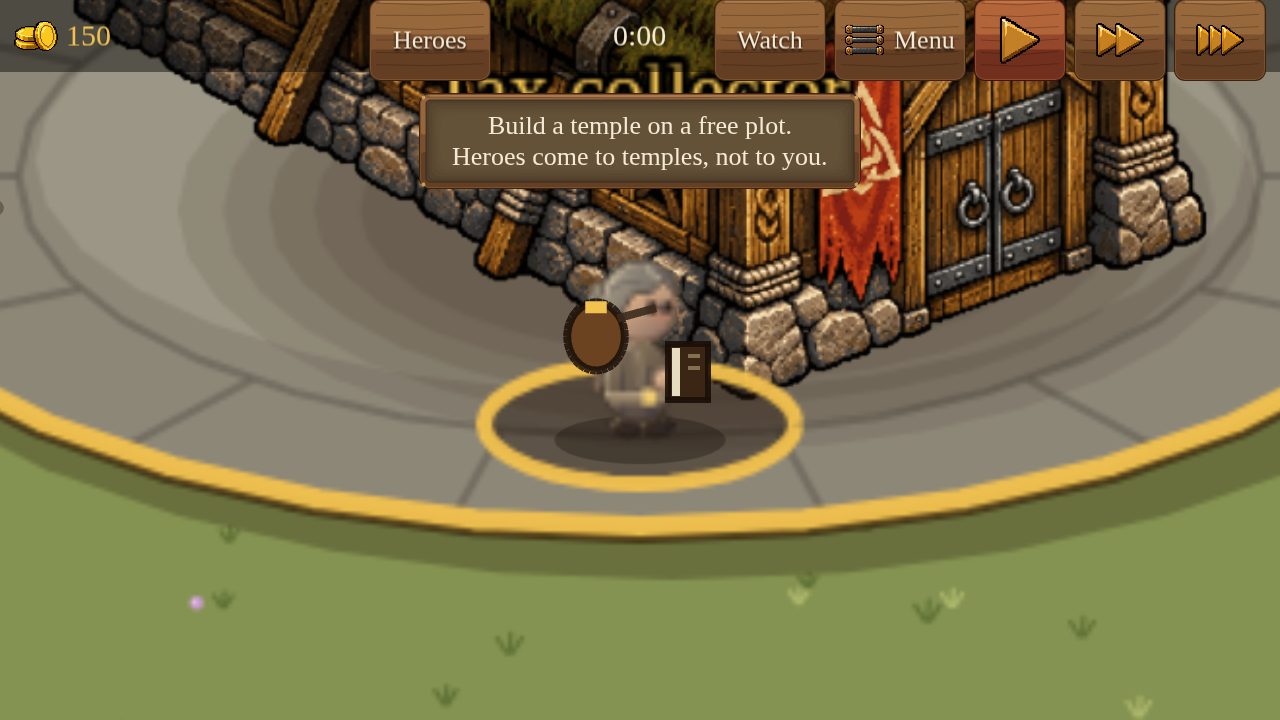
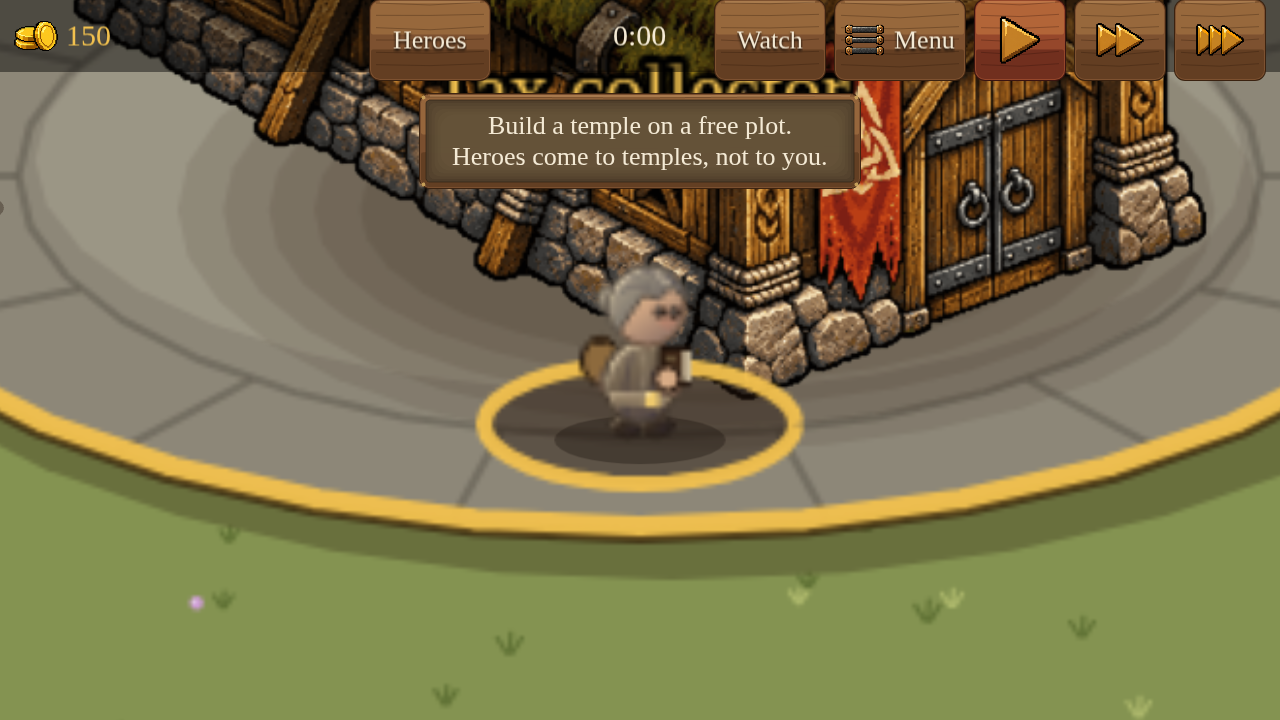
fix(scene): collector sack behind the body, ledger held at the front hand, both baked into the rig frames
Claude-Session: https://claude.ai/code/session_01EDKMoTWRabZMeHFkhrUDvd

Changed region(s): [[0.4375, 0.3667, 0.5625, 0.5806]]

diff --git a/src/ui/parts/collectorProps.ts b/src/ui/parts/collectorProps.ts
@@ -1,0 +1,104 @@
+// The tax collector's props, drawn into each baked frame of his rig (bake.ts) so they move with
+// the figure and layer right: the sack goes BEHIND the body (it hangs on his back), the ledger is
+// drawn at the front hand's position of that very frame and the hand is drawn again over its edge,
+// so it is held. Units are the rig's drawing units (feet at the origin, facing +x); the frame's
+// transform is already set by the caller.
+export interface PropCtx {
+  save(): void;
+  restore(): void;
+  beginPath(): void;
+  ellipse(x: number, y: number, rx: number, ry: number, rot: number, a0: number, a1: number): void;
+  arc(x: number, y: number, r: number, a0: number, a1: number): void;
+  rect(x: number, y: number, w: number, h: number): void;
+  fill(): void;
+  stroke(): void;
+  moveTo(x: number, y: number): void;
+  lineTo(x: number, y: number): void;
+  translate(x: number, y: number): void;
+  rotate(a: number): void;
+  fillStyle: string | CanvasGradient | CanvasPattern;
+  strokeStyle: string | CanvasGradient | CanvasPattern;
+  lineWidth: number;
+}
+
+const INK = '#1a0f08';
+const SACK = '#8a6a3c';
+const SACK_TIE = '#3e2c18';
+const COIN = '#f2c14e';
+
+// Sack radius in drawing units by size (0 empty, 1 some, 2 heavy).
+const RADIUS = [4.4, 5.8, 7.2] as const;
+
+export interface PropPose {
+  bob: number;
+  rot: number;
+  hf: { x: number; y: number };
+}
+
+// The sack, behind the body: centred on the back (left), low enough that the shoulder stays clear.
+export function drawSackBack(c: PropCtx, size: 0 | 1 | 2, p: PropPose): void {
+  const r = RADIUS[size];
+  c.save();
+  if (p.rot) c.rotate(p.rot);
+  c.translate(-5.6 - r * 0.35, -13.5 - r * 0.2 + p.bob);
+  c.beginPath();
+  c.ellipse(0, 0, r * 0.82, r, 0, 0, Math.PI * 2);
+  c.fillStyle = SACK;
+  c.fill();
+  c.lineWidth = 0.9;
+  c.strokeStyle = INK;
+  c.stroke();
+  // The tied neck of the sack.
+  c.beginPath();
+  c.rect(-r * 0.32, -r * 1.02, r * 0.64, 1.6);
+  c.fillStyle = SACK_TIE;
+  c.fill();
+  if (size > 0) {
+    c.beginPath();
+    c.arc(0, r * 0.1, size === 2 ? 2 : 1.5, 0, Math.PI * 2);
+    c.fillStyle = COIN;
+    c.fill();
+    c.lineWidth = 0.5;
+    c.stroke();
+  }
+  c.restore();
+}
+
+// The ledger in the front hand: a dark book standing in the hand, pale page edge toward the front.
+// Drawn after the body; the hand is painted again over the cover so the fingers are on it.
+export function drawLedgerHeld(c: PropCtx, p: PropPose, skin: string, handR = 2.4): void {
+  c.save();
+  if (p.rot) c.rotate(p.rot);
+  c.translate(p.hf.x, p.hf.y);
+  const w = 5.2;
+  const h = 7;
+  c.beginPath();
+  c.rect(-1.2, -h + 1.2, w, h);
+  c.fillStyle = '#3b2616';
+  c.fill();
+  c.lineWidth = 0.8;
+  c.strokeStyle = INK;
+  c.stroke();
+  // Pages on the far edge and two ruled lines.
+  c.beginPath();
+  c.rect(w - 2.2, -h + 1.8, 1.4, h - 1.2);
+  c.fillStyle = '#e6dcc0';
+  c.fill();
+  c.beginPath();
+  c.moveTo(-0.2, -h + 3.2);
+  c.lineTo(1.6, -h + 3.2);
+  c.moveTo(-0.2, -h + 4.8);
+  c.lineTo(1.6, -h + 4.8);
+  c.lineWidth = 0.5;
+  c.strokeStyle = '#8a7a58';
+  c.stroke();
+  // The hand over the cover.
+  c.beginPath();
+  c.arc(0, 0, handR, 0, Math.PI * 2);
+  c.fillStyle = skin;
+  c.fill();
+  c.lineWidth = 0.8;
+  c.strokeStyle = INK;
+  c.stroke();
+  c.restore();
+}

diff --git a/src/ui/unitViews.ts b/src/ui/unitViews.ts
@@ -44,7 +44,7 @@ import { pickVariant, rotateHue, sizeJitter, tierStyle } from './monsterLook';
 import { RIDER_LOOK, riderDurationMs } from './riderLook';
 import { damageLook, MAX_FLOATS, typeTint, type FloatLook, type HitInfo } from './damageLook';
 import { getSettings } from './settings';
-import { sackSize, drawCollector, drawCollectorProps } from './taxLook';
+import { sackSize, drawCollector } from './taxLook';
 import { drawJar } from './ambrosiaLook';
 import { heroLabel, partyColor, partyRole, type PartyRole } from './partyLook';
 import { SpeechLimit } from './speechLimit';
@@ -235,6 +235,7 @@ export class UnitView {
   private jarDrawn = false;
   private collector = false;
   private sackDrawn = -1;
+  private carryCap = DEFAULT_TUNING.collector.carryCap;
   private intentDrawn = false;
   private hiddenNow = false;
   private stoneNow = false;
@@ -364,7 +365,9 @@ export class UnitView {
     }
     if (u.kind === 'hero' && ART_BEATS_PARTS && this.stillOk) return this.leaveParts();
     const look =
-      u.kind === 'collector' ? collectorPartsLook() : heroPartsLook(u.god, u.path, u.tier);
+      u.kind === 'collector'
+        ? collectorPartsLook(sackSize(u.gold ?? 0, this.carryCap))
+        : heroPartsLook(u.god, u.path, u.tier);
     if (!look) return this.leaveParts();
     const id = look.id;
     if (id === this.partsId) return true;
@@ -636,16 +639,19 @@ export class UnitView {
     if (carrying) drawJar(this.jarG, -this.w * 0.55, -this.h * 0.55, 1.2);
   }
 
+  // The round figure's sack (only when there is no rig: with the parts rig the sack and the ledger
+  // are baked into the frames, per sack size).
   private drawSackFor(carried: number, cap = DEFAULT_TUNING.collector.carryCap): void {
     if (!this.sackG) return;
+    if (this.partsId !== '') {
+      if (this.sackDrawn !== -2) this.sackG.clear();
+      this.sackDrawn = -2;
+      return;
+    }
     const size = sackSize(carried, cap);
-    // On the parts rig only the props are drawn (sack, strap, ledger); else the whole round figure.
-    const onRig = this.partsId !== '';
-    const key = size + (onRig ? 10 : 0);
-    if (key === this.sackDrawn) return;
-    this.sackDrawn = key;
-    if (onRig) drawCollectorProps(this.sackG.setScale(1), size);
-    else drawCollector(this.sackG.setScale(0.78), size);
+    if (size === this.sackDrawn) return;
+    this.sackDrawn = size;
+    drawCollector(this.sackG.setScale(0.78), size);
   }
 
   // A short sign over the head for a moment: a "?" or "!" a boss move puts on its target.
@@ -830,6 +836,7 @@ export class UnitView {
 
   update(u: UnitState, ctx: FrameCtx, role: PartyRole = 'solo'): void {
     this.tierNow = u.tier;
+    this.carryCap = ctx.carryCap;
     if (u.kind === 'worker') this.drawJarFor((ctx.carry.get(u.id) ?? 0) > 0);
     if (!this.applyParts(u)) this.applyArt(u);
     // After the look is chosen: on the parts rig the sack is just a prop.

diff --git a/src/ui/parts/bake.ts b/src/ui/parts/bake.ts
@@ -8,6 +8,7 @@ import { drawHuman, pose as rigPose, setState, usc } from './proto.gen';
 import { drawKit, kitScale, layout } from './painted';
 import { kitOf } from './paintedLoad';
 import { gradePixels } from './partsStyle';
+import { drawLedgerHeld, drawSackBack } from './collectorProps';
 import {
   ATLAS_COLS as COLS,
   FRAME_COUNT,
@@ -50,7 +51,10 @@ export function ensureHeroSet(scene: Phaser.Scene, id: string, def: PartsDef, ti
   const atlas = `parts_${id}`;
   if (scene.textures.exists(atlas)) scene.textures.remove(atlas);
   // A painted look (a kit combo in data/heroKits.ts) is drawn from its pictures on the same rig.
-  const kit = kitOf(scene, id);
+  // The tax collector's look carries a sack size (0 to 2) and names the kit it would use.
+  const sack =
+    typeof def.sack === 'number' ? (Math.min(2, Math.max(0, def.sack)) as 0 | 1 | 2) : -1;
+  const kit = kitOf(scene, typeof def.kit === 'string' ? def.kit : id);
   const tex = scene.textures.createCanvas(atlas, fw * COLS, fh * rows);
   const frames = { idle: [], walk: [], attack: [], ko: [] } as Record<PoseName, string[]>;
   const set: BakedSet = {
@@ -93,6 +97,14 @@ export function ensureHeroSet(scene: Phaser.Scene, id: string, def: PartsDef, ti
         alpha: 1,
         hits: 0,
       };
+      // The collector's sack hangs behind him; the ledger is drawn over the body at the front hand.
+      const props = sack >= 0 ? rigPose(u) : null;
+      if (props) {
+        c.save();
+        c.scale(usc(u), usc(u));
+        drawSackBack(c, sack as 0 | 1 | 2, props);
+        c.restore();
+      }
       if (kit) {
         const p = rigPose(u);
         // The same on-screen size as the code look: the painted figure is 44 units tall, the
@@ -102,6 +114,12 @@ export function ensureHeroSet(scene: Phaser.Scene, id: string, def: PartsDef, ti
         drawKit(c, layout(kit, p, p.armF > 2.0 && u.atkT >= 0), p);
         c.restore();
       } else drawHuman(u);
+      if (props) {
+        c.save();
+        c.scale(usc(u), usc(u));
+        drawLedgerHeld(c, props, String(def.skin ?? '#d3ab88'));
+        c.restore();
+      }
       setState({ ctx: null });
       c.restore();
     }

diff --git a/src/ui/taxLook.ts b/src/ui/taxLook.ts
@@ -32,32 +32,6 @@ export function drawCoin(g: Phaser.GameObjects.Graphics, x: number, y: number, r
   g.lineStyle(2, TAX_STYLE.coinEdge, 0.9).strokeCircle(x, y, r * 0.62);
 }
 
-// The collector's props on the parts rig (a figure of hero size, feet at the origin): the sack on
-// his back (left) in 3 sizes by what he carries, a strap across the chest and a ledger held at his
-// front hand. The body itself comes from the rig.
-export function drawCollectorProps(g: Phaser.GameObjects.Graphics, size: 0 | 1 | 2): void {
-  g.clear();
-  const ink = 0x1a0f08;
-  const r = size === 0 ? 9 : size === 1 ? 12 : 15;
-  const sx = -11;
-  const sy = -25 - r * 0.1;
-  g.fillStyle(TAX_STYLE.sack, 1).fillEllipse(sx, sy, r * 1.6, r * 1.9);
-  g.lineStyle(2, ink, 0.85).strokeEllipse(sx, sy, r * 1.6, r * 1.9);
-  g.fillStyle(TAX_STYLE.sackTie, 1).fillRect(sx - r * 0.3, sy - r * 0.98, r * 0.6, 3);
-  if (size > 0) drawCoin(g, sx, sy + 1, size === 2 ? 5 : 4);
-  // The strap from the sack over the shoulder.
-  g.lineStyle(2, 0x3a2a1c, 0.9).lineBetween(sx + r * 0.6, sy - r * 0.5, 4, -33);
-  // The ledger: a thick dark-brown book with pale pages, held out in front.
-  const lx = 12;
-  const ly = -17;
-  g.fillStyle(0x3b2616, 1).fillRect(lx - 5, ly - 7, 10, 14);
-  g.lineStyle(1.5, ink, 0.9).strokeRect(lx - 5, ly - 7, 10, 14);
-  g.fillStyle(0xe6dcc0, 1).fillRect(lx - 4, ly - 6, 2, 12);
-  g.lineStyle(1, 0x8a7a58, 0.9)
-    .lineBetween(lx, ly - 4, lx + 3, ly - 4)
-    .lineBetween(lx, ly - 1, lx + 3, ly - 1);
-}
-
 // The tax collector, drawn facing right with its feet at the origin: a stocky hooded figure in a
 // brown robe with a gold belt, and a big sack on its back (left) in 3 sizes. The sack is the
 // point: it is what tells it from a hero, and it grows with what the collector carries.

diff --git a/src/data/heroParts.ts b/src/data/heroParts.ts
@@ -67,9 +67,13 @@ export function partsGods(): { god: string; paths: string[] }[] {
 // a lean man at hero proportions in muted grey-brown wool, grey hair, no cape and nothing red. The
 // sack on his back and the ledger in his hand are small props drawn by taxLook.ts.
 export const COLLECTOR_LOOK_ID = 'npc_collector';
-export function collectorPartsLook(): PartsLook {
+
+// The tax collector on the parts rig: one baked set per sack size (0 empty, 1 some, 2 heavy),
+// because the sack and the ledger in his hand are drawn into the frames (parts/collectorProps.ts).
+// `kit` is the look id a painted kit (data/heroKits.ts) is keyed by.
+export function collectorPartsLook(size: 0 | 1 | 2 = 1): PartsLook {
   return {
-    id: COLLECTOR_LOOK_ID,
+    id: `${COLLECTOR_LOOK_ID}_s${size}`,
     def: {
       name: 'Reeve',
       skin: '#d3ab88',
@@ -81,6 +85,8 @@ export function collectorPartsLook(): PartsLook {
       armCol: '#5f5343',
       hp: 30,
       speed: 40,
+      sack: size,
+      kit: COLLECTOR_LOOK_ID,
       atk: { style: 'swing', type: 'physical', dmg: [1, 2], cd: 2, range: 20, dur: 0.8 },
     },
   };
